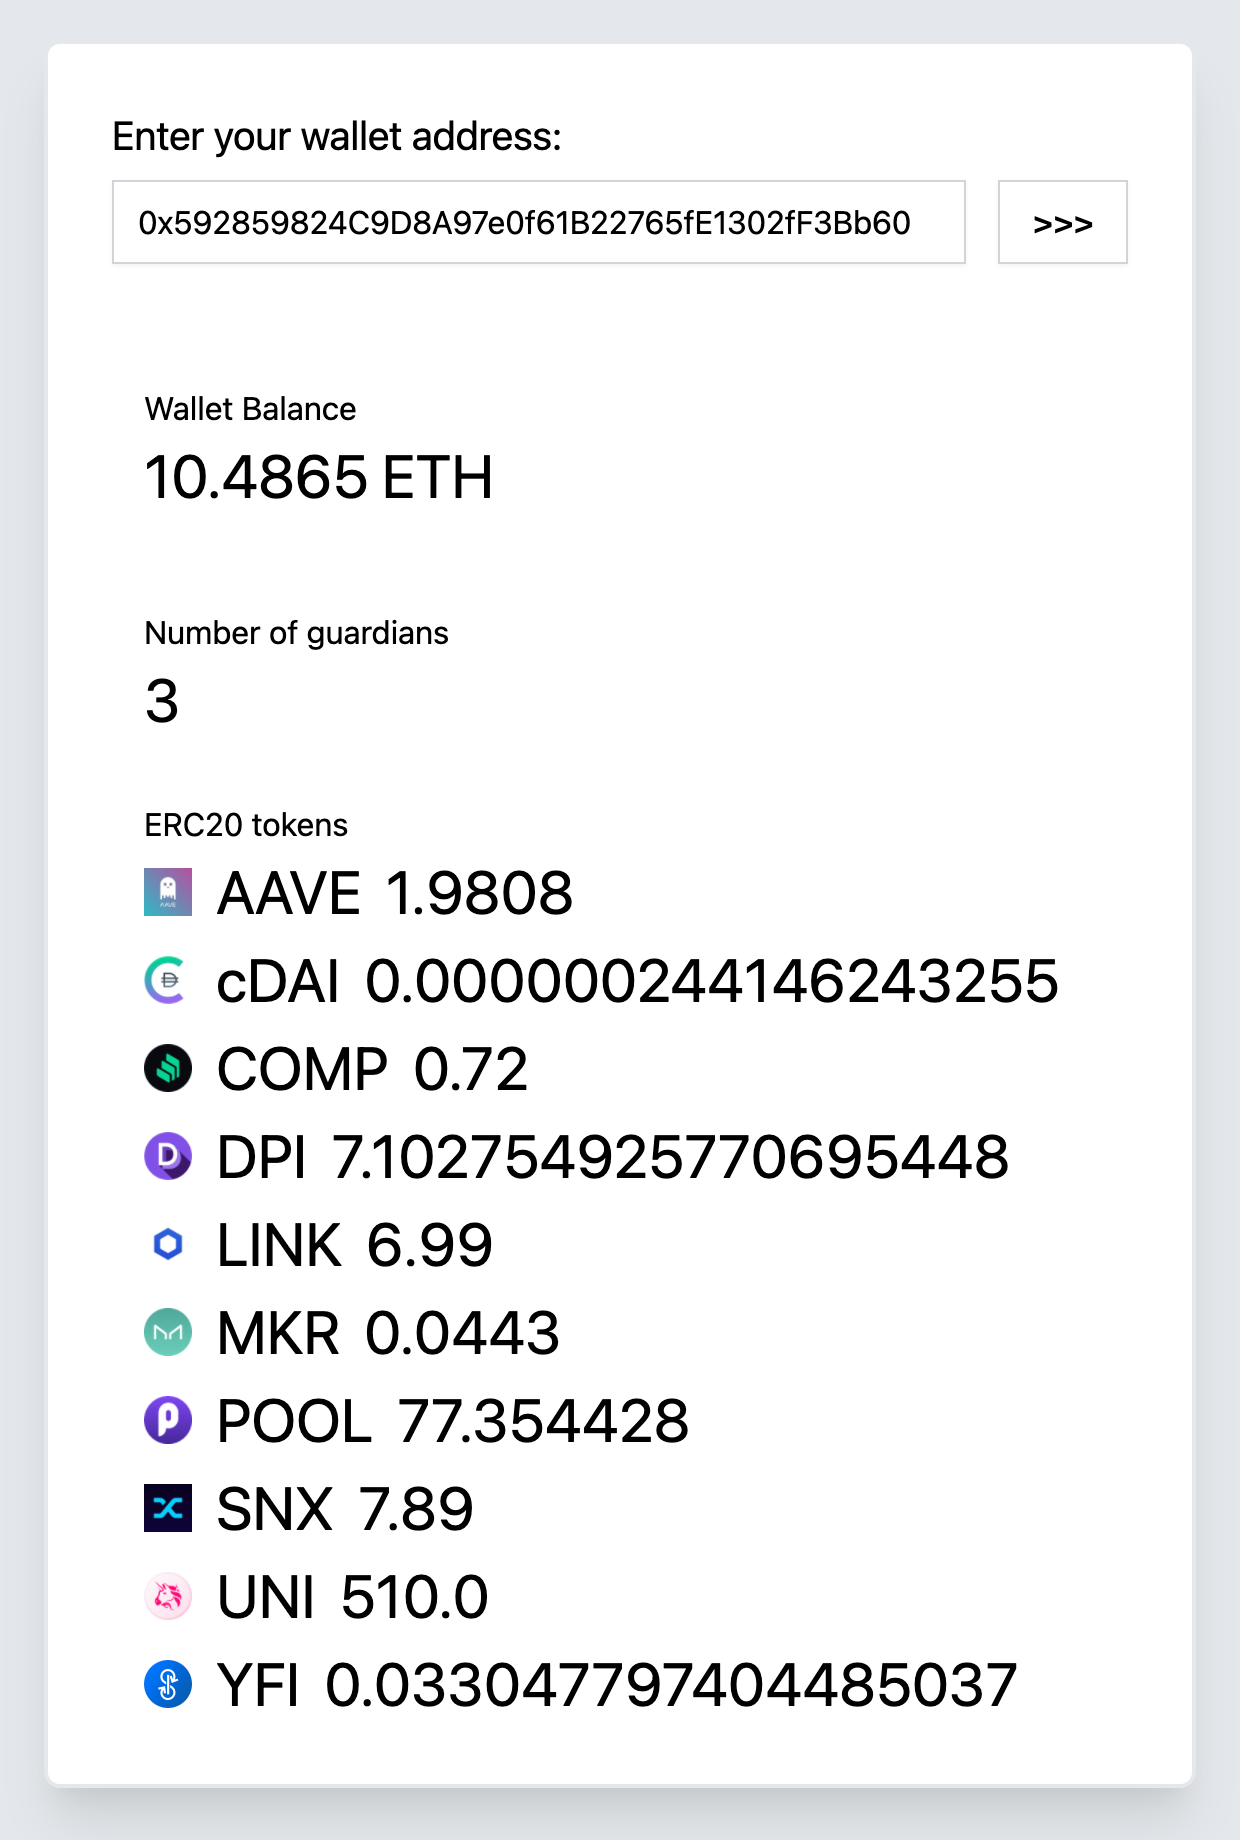
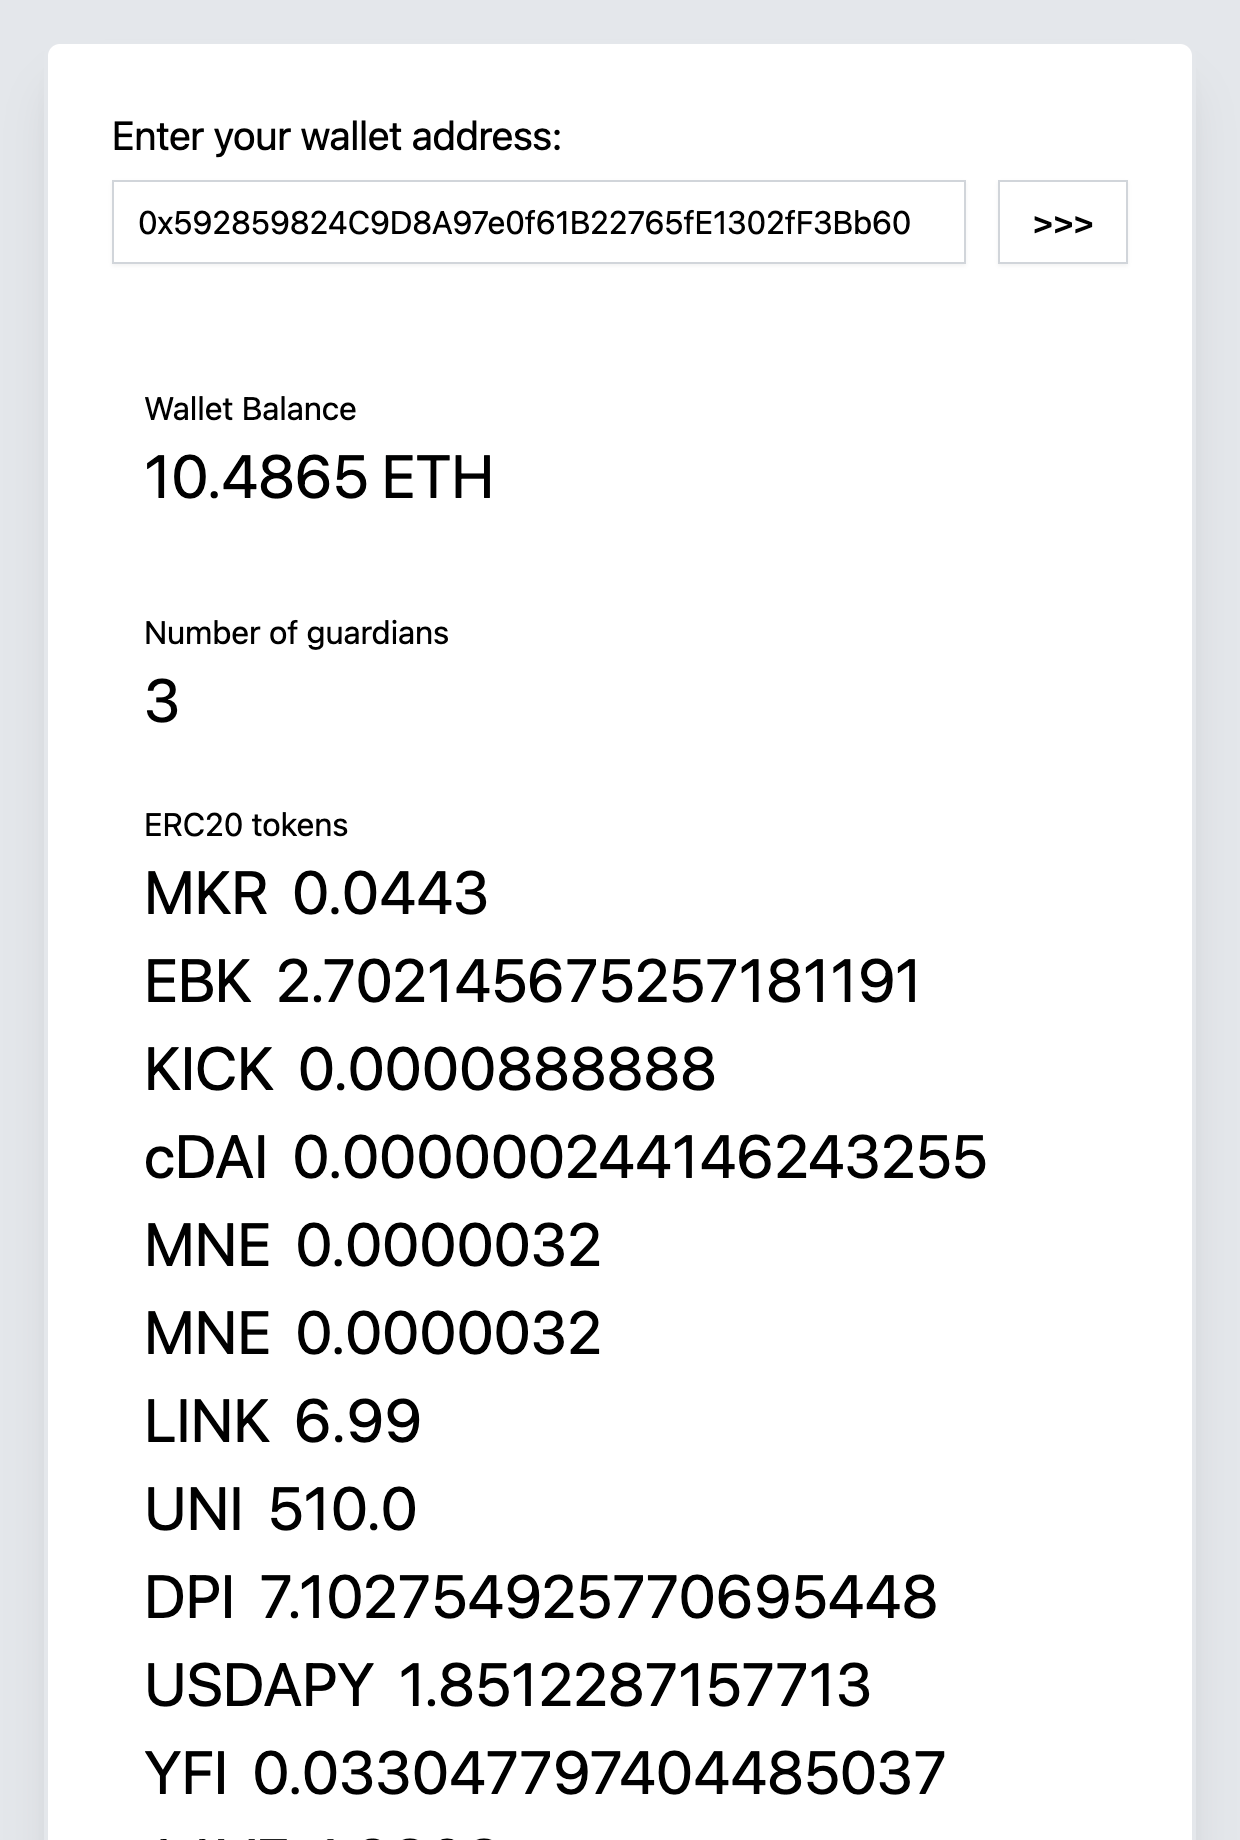
added etherscan api lookup for tokens

Changed region(s): [[0.0306, 0.4647, 0.9806, 1.0]]

diff --git a/components/TokenList.js b/components/TokenList.js
@@ -1,18 +1,13 @@
-import React from "react";
+import React, { useEffect, useState } from "react";
 import { formatUnits } from "@ethersproject/units";
-import { useContractCalls, useEthers, ERC20Interface } from "@usedapp/core";
-import sushiswapToken from "@sushiswap/default-token-list";
-
-function getTokenList(chainId) {
-  return sushiswapToken.tokens.filter((token) => token.chainId == chainId);
-}
+import { useContractCalls, ERC20Interface } from "@usedapp/core";
 
 function useTokensBalance(tokenList, account) {
   return useContractCalls(
     tokenList && account
       ? tokenList.map((token) => ({
           abi: ERC20Interface,
-          address: token.address,
+          address: token.contractAddress,
           method: "balanceOf",
           args: [account],
         }))
@@ -32,34 +27,57 @@ function withPositiveBalance(tokenList, balances) {
   }, []);
 }
 
+const getAllTransfersFromEtherscan = (walletAddress) => {
+  return fetch(
+    `https://api.etherscan.io/api?module=account&action=tokentx&address=${walletAddress}&startblock=0&endblock=999999999&sort=asc&apikey=TA9V6N8V168HP7CIAZ8KFPRK8CTXDGVQHH`
+  )
+    .then((resp) => resp.json())
+    .then((resp) => {
+      if (resp.message === "OK") {
+        const uniq = [
+          ...new Map(
+            resp.result.map((item) => [item["contractAddress"], item])
+          ).values(),
+        ];
+        return uniq;
+      }
+    });
+};
+
 function TokenList(props) {
   const { walletAddress } = props;
-  const { chainId } = useEthers();
-  const tokenList = getTokenList(chainId);
-  const balances = useTokensBalance(tokenList, walletAddress);
+  const [ethTokenList, setEthTokenList] = useState([]);
+
+  useEffect(async () => {
+    if (!!walletAddress) {
+      getAllTransfersFromEtherscan(walletAddress).then((list) => {
+        setEthTokenList(list);
+      });
+    }
+  }, [walletAddress]);
+  const balances = useTokensBalance(ethTokenList, walletAddress);
   const positiveBalances = balances
-    ? withPositiveBalance(tokenList, balances)
+    ? withPositiveBalance(ethTokenList, balances)
     : [];
   return (
     <>
       <div className="mt-8 ml-4 space-y-1">
         <div>ERC20 tokens</div>
         <div className="space-y-2">
-          {positiveBalances.length > 0 ?
+          {positiveBalances.length > 0 ? (
             positiveBalances.map(({ tokenInfo: token, tokenBalance }) => (
-              <div key={token.address} className="flex  items-center space-x-3 " title={token.name}>
-                <div>
-                  <img
-                    src={token.logoURI}
-                    alt={`${token.symbol} logo`}
-                    className="w-6"
-                  />
-                </div>
-                <div className="text-3xl">{token.symbol}</div>
+              <div
+                key={token.contractAddress}
+                className="flex  items-center space-x-3 "
+                title={token.tokenName}
+              >
+                <div className="text-3xl">{token.tokenSymbol}</div>
                 <div className="text-3xl">{tokenBalance}</div>
-
               </div>
-            )) : <div className="text-3xl"> No tokens </div>}
+            ))
+          ) : (
+            <div className="text-3xl"> No tokens </div>
+          )}
         </div>
       </div>
     </>

diff --git a/README.md b/README.md
@@ -15,7 +15,6 @@ Live version is available at https://check-argent-wallet.vercel.app
 * [useDApp](https://github.com/EthWorks/useDApp)
 * [React Hook Form](https://react-hook-form.com/)
 * [Tailwind CSS](https://tailwindcss.com)
-* [@sushiswap/default-token-list](@sushiswap/default-token-list)
 
 ### Installing and running
 
